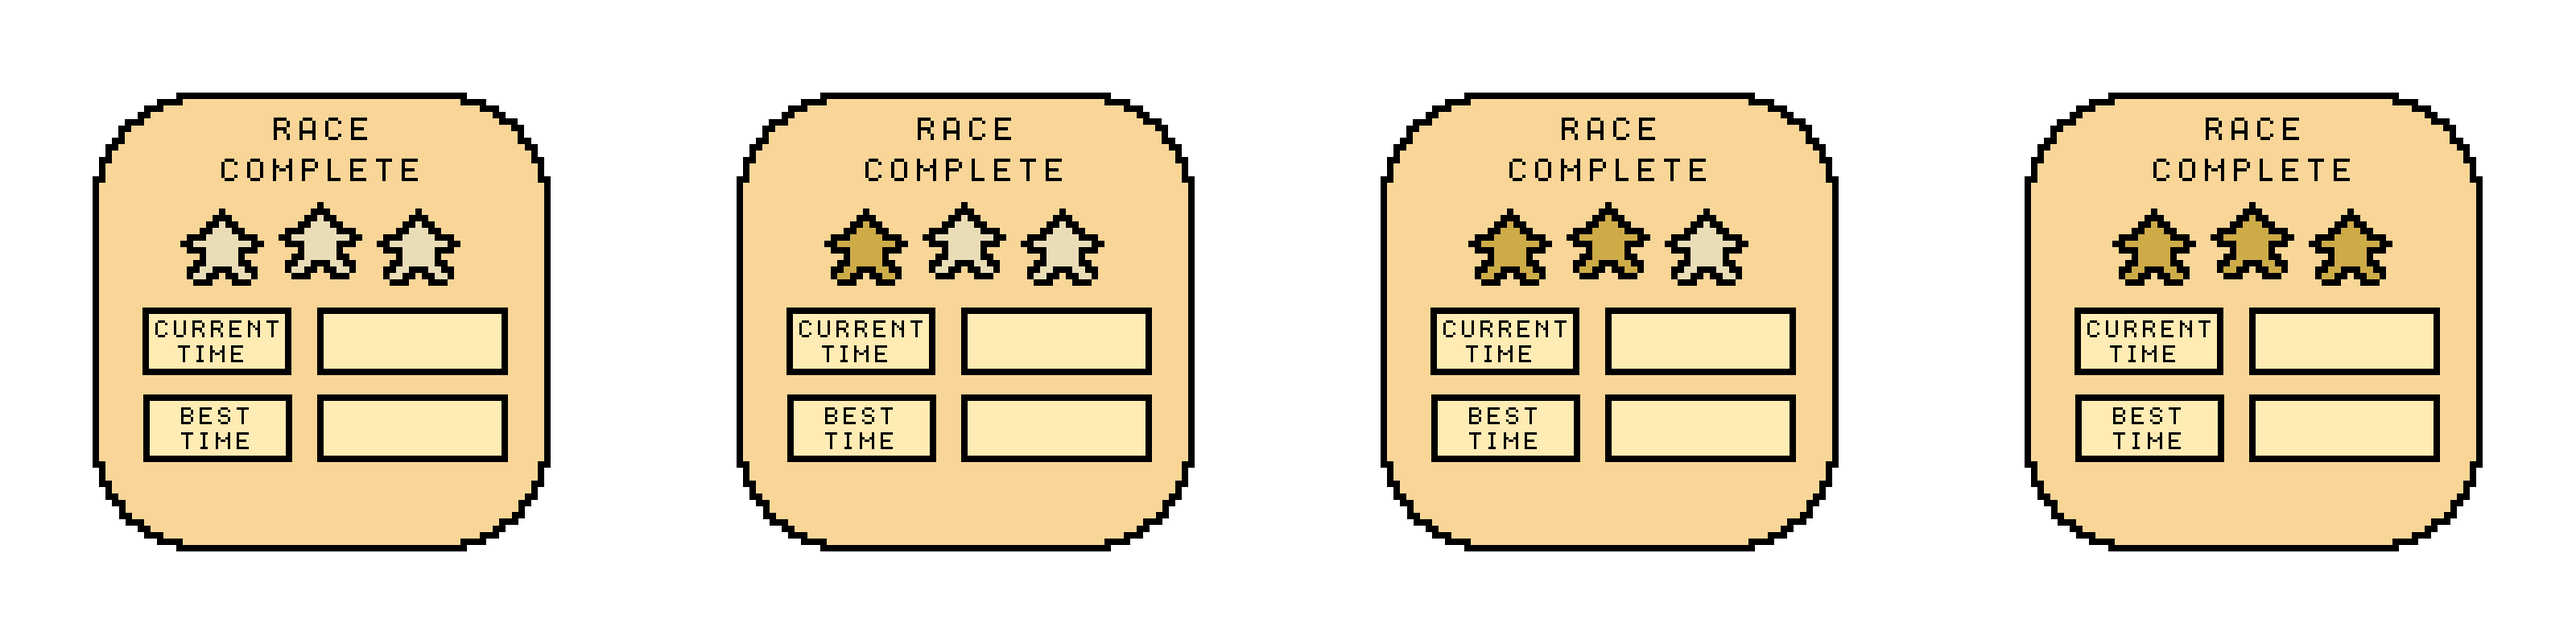
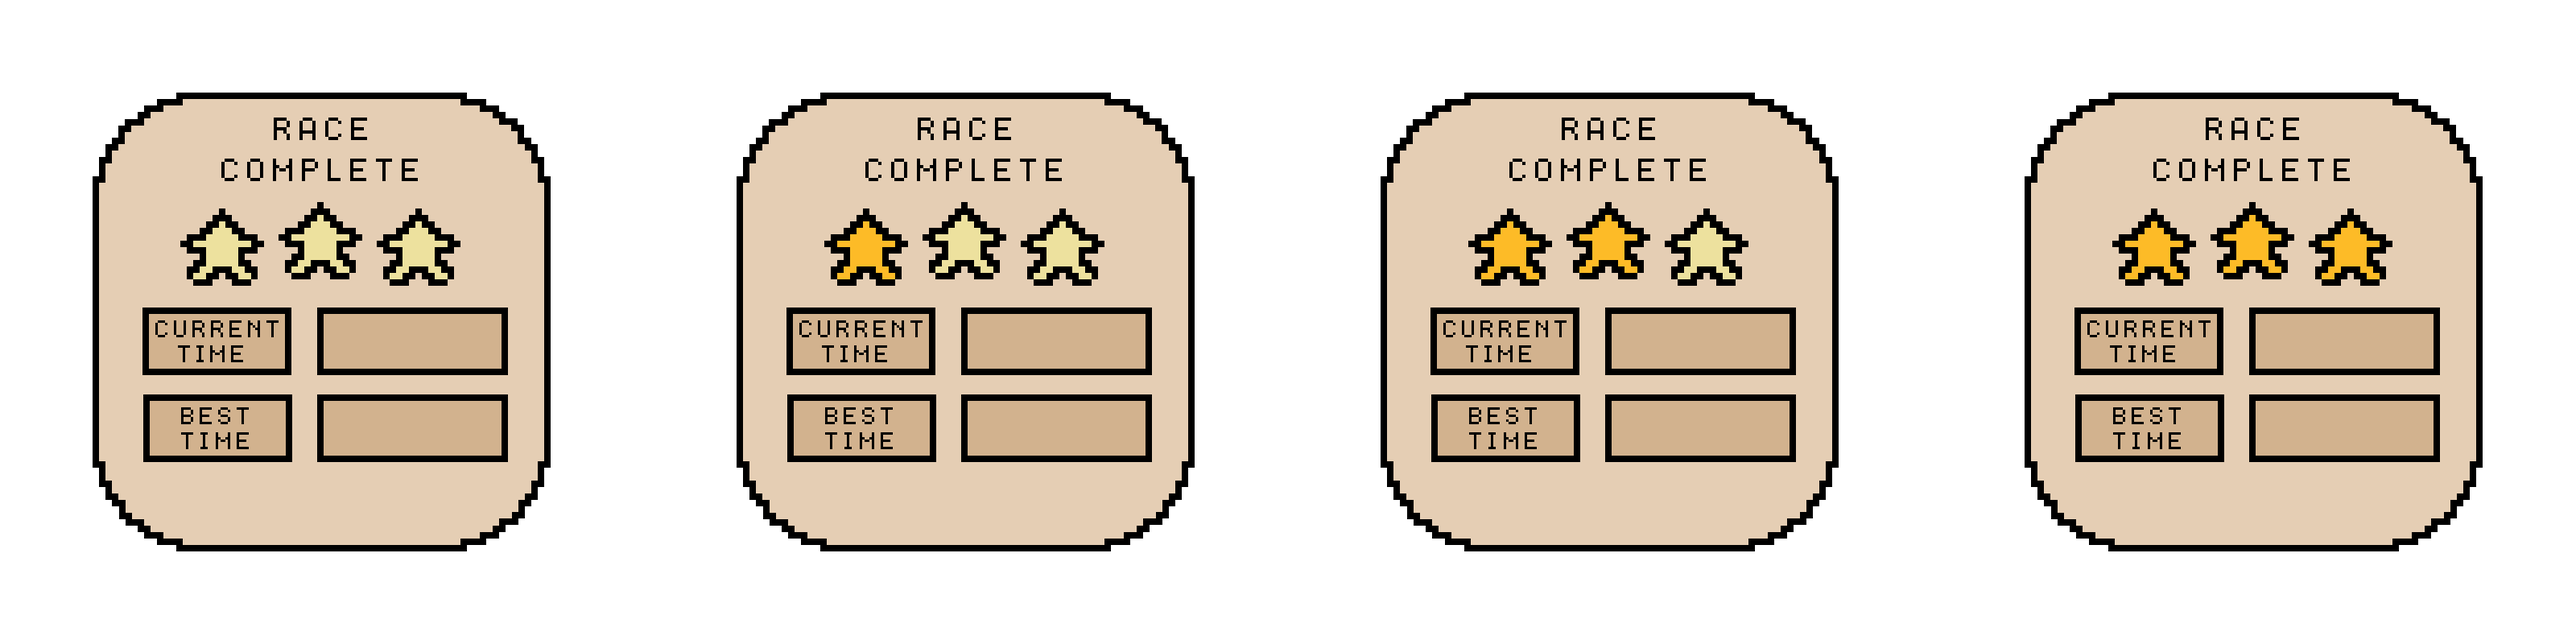
Huge UI Rework
-New Logo
-New Ico
-New UI color
-Small Bug Fixes

diff --git a/js/loading.js b/js/loading.js
@@ -9,7 +9,7 @@ preload: function() {
         var progressBox = this.add.graphics();
         progressBox.fillStyle(0x222222, 0.8);
         progressBox.fillRect(240, 270, 320, 50);
-        backimage.fillStyle(0x75c8ae, 1);
+        backimage.fillStyle(0x37313b, 1);
         backimage.fillRect(0, 0, 800, 800);
 
         var width = this.cameras.main.width;
@@ -71,7 +71,6 @@ preload: function() {
         });
 
         //Loads All The Images
-        this.load.image('mapselectback', 'assets/images/UI/mapselectback.png');
         this.load.image('howto', 'assets/images/UI/howto.png');
         this.load.image('X', 'assets/images/UI/X.png')
         this.load.image('map1_pallet', 'assets/tilesets/map1_pallet.png')
@@ -84,13 +83,12 @@ preload: function() {
         this.load.image('darkbirdmobile', 'assets/images/Cars/DarkBirdMobile.png');
         this.load.image('mgcar', 'assets/images/Cars/MGKCar.png');
         this.load.image('infoPopUp', 'assets/images/Garage/InfoPopUp.png');
-        this.load.image('GarageBack', 'assets/images/UI/mapselectback.png');
         this.load.image('redo', 'assets/images/UI/redo.png')
         this.load.image('pauseMenu', 'assets/images/UI/pauseScreen.png');
         this.load.image('LeaderBoardEnterBox', 'assets/images/UI/LeaderBoardScreen.png');
-        this.load.image('mapselectback', 'assets/images/UI/mapselectback.png');
         this.load.image('mapbio', 'assets/images/UI/mapbio.png');
         this.load.image('mapback', 'assets/images/UI/MapSelectTop1.png');
+        this.load.image('logo', 'assets/images/UI/Logo_Test.png');
 
         this.load.tilemapTiledJSON('tilemap2', 'assets/tilesets/map2.json');
         this.load.tilemapTiledJSON('tilemap1', 'assets/tilesets/map1.json');

diff --git a/js/garage.js b/js/garage.js
@@ -24,7 +24,9 @@ var garage = new Phaser.Class({
         currency = this.add.text(300, 65, "Stars: " + Stars, { fontFamily: 'Dogica', fontSize: 32, color: '#000000' });
         var price = 0;
         //Background UI
-        GarageBack = this.physics.add.sprite(400, 400, 'GarageBack');
+        var backimage = this.add.graphics();
+        backimage.fillStyle(0x37313b, 1);
+        backimage.fillRect(0, 0, 800, 800);
 
         //text if you don't have enough money
         var notEnoughMoney = this.add.text(25, 200, "You do not have enough Stars", { fontFamily: 'Dogica', fontSize: 32, color: '#e34d4d' });
@@ -664,7 +666,7 @@ var garage = new Phaser.Class({
 
         //Defines Layers And Border Physics
         const layer = this.add.layer();
-        layer.add([GarageBack, backButton, GarageIcon1, GarageIcon2, GarageIcon3, GarageIcon4, GarageIcon5, GarageIcon6, player1, player2, player3, player4, darkbirdmobile, mgcar, GarageIconLocked1, GarageIconLocked2, GarageIconLocked3, GarageIconLocked4, GarageIconLocked5, GarageIconLocked6, infoPopUp, currency, cancelButton, buyButton, popUpText, notEnoughMoney]);
+        layer.add([backimage, backButton, GarageIcon1, GarageIcon2, GarageIcon3, GarageIcon4, GarageIcon5, GarageIcon6, player1, player2, player3, player4, darkbirdmobile, mgcar, GarageIconLocked1, GarageIconLocked2, GarageIconLocked3, GarageIconLocked4, GarageIconLocked5, GarageIconLocked6, infoPopUp, currency, cancelButton, buyButton, popUpText, notEnoughMoney]);
 
 
 

diff --git a/js/mapselect.js b/js/mapselect.js
@@ -19,7 +19,9 @@ var mapselect = new Phaser.Class({
         GRASS = localStorage.getItem('grassMap');
         SNOW = localStorage.getItem('snowMap');
         BEACH = localStorage.getItem('busyBeach');
-        mapselectback = this.add.image(400, 400, 'mapselectback')
+        var backimage = this.add.graphics();
+        backimage.fillStyle(0x37313b, 1);
+        backimage.fillRect(0, 0, 800, 800);
         map3select = this.add.image(600, 208, 'map3select')
         map1select = this.add.image(200, 208, 'selectmap1')
         map2select = this.add.image(400, 208, 'map2select')
@@ -295,7 +297,7 @@ var mapselect = new Phaser.Class({
         mapstart.visible = false;
 
         const layer = this.add.layer();
-        layer.add([mapselectback, mapback, backButton, map3select, map2select, map1select, mapbio, mapstart, firstPlaceT, secondPlaceT, thirdPlaceT, fourthPlaceT, fifthPlaceT, currency, infoPopUp, cancelButton, buyButton, popUpText, notEnoughMoney])
+        layer.add([backimage, mapback, backButton, map3select, map2select, map1select, mapbio, mapstart, firstPlaceT, secondPlaceT, thirdPlaceT, fourthPlaceT, fifthPlaceT, currency, infoPopUp, cancelButton, buyButton, popUpText, notEnoughMoney])
         mapbio.visible = false;
     },
     update: function() {

diff --git a/js/menu.js b/js/menu.js
@@ -8,12 +8,14 @@ preload: function() {
     },
     create: function() {
 
-        
+        var backimage = this.add.graphics();
+        backimage.fillStyle(0x37313b, 1);
+        backimage.fillRect(0, 0, 800, 800);
         this.cameras.main.fadeIn(1000, 0, 0, 0)
-        var back = this.add.image(400, 400, 'mapselectback')
         var startButton = this.add.image(200, 600, 'start');
         var garageButton = this.add.image(600, 600, 'garage');
         var optionButton = this.add.image(600, 700, 'options');
+        var logo = this.add.image(400, 200, 'logo');
         var exithelp = this.add.image(640,150,'X');
         
 
@@ -78,7 +80,7 @@ preload: function() {
         })
         
         const layer = this.add.layer();
-        layer.add([back, startButton, garageButton, optionButton, howimage, exithelp])
+        layer.add([backimage, startButton, garageButton, optionButton, logo, howimage, exithelp])
 
 
     }
